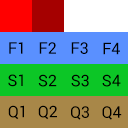
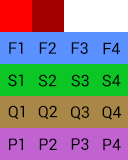
Add pistols

diff --git a/MonoGameJam1/Components/Player/PlayerComponent.cs b/MonoGameJam1/Components/Player/PlayerComponent.cs
@@ -49,6 +49,11 @@ namespace MonoGameJam1.Components.Player
             Quarterstaff3,
             Quarterstaff4,
 
+            Pistol1,
+            Pistol2,
+            Pistol3,
+            Pistol4,
+
             Shot,
             Dying
         }
@@ -153,6 +158,11 @@ namespace MonoGameJam1.Components.Player
                 {Animations.Quarterstaff2, "quarterstaff2"},
                 {Animations.Quarterstaff3, "quarterstaff3"},
                 {Animations.Quarterstaff4, "quarterstaff4"},
+
+                {Animations.Pistol1, "pistol1"},
+                {Animations.Pistol2, "pistol2"},
+                {Animations.Pistol3, "pistol3"},
+                {Animations.Pistol4, "pistol4"},
 
                 {Animations.Shot, "shot"},
                 {Animations.Dying, "dying"},
@@ -339,6 +349,67 @@ namespace MonoGameJam1.Components.Player
             sprite.AddFramesToAttack(am[Animations.Quarterstaff4], 1);
 
             #endregion
+
+            
+            // == PISTOL ATTACKS ==
+
+            #region Pistol Animations
+
+            sprite.CreateAnimation(am[Animations.Pistol1], 0.1f);
+            sprite.AddFrames(am[Animations.Pistol1], new List<Rectangle>()
+            {
+                new Rectangle(0, 128, 32, 32),
+                new Rectangle(0, 128, 32, 32),
+            });
+            sprite.AddAttackCollider(am[Animations.Pistol1], new List<List<Rectangle>>
+            {
+                new List<Rectangle>(),
+                new List<Rectangle> { new Rectangle(0, -10, 128, 29) },
+            });
+            sprite.AddFramesToAttack(am[Animations.Pistol1], 1);
+
+            sprite.CreateAnimation(am[Animations.Pistol2], 0.1f);
+            sprite.AddFrames(am[Animations.Pistol2], new List<Rectangle>()
+            {
+                new Rectangle(32, 128, 32, 32),
+                new Rectangle(32, 128, 32, 32),
+            });
+            sprite.AddAttackCollider(am[Animations.Pistol2], new List<List<Rectangle>>
+            {
+                new List<Rectangle>(),
+                new List<Rectangle> { new Rectangle(0, -10, 128, 29) },
+            });
+            sprite.AddFramesToAttack(am[Animations.Pistol2], 1);
+
+            sprite.CreateAnimation(am[Animations.Pistol3], 0.1f);
+            sprite.AddFrames(am[Animations.Pistol3], new List<Rectangle>()
+            {
+                new Rectangle(64, 128, 32, 32),
+                new Rectangle(64, 128, 32, 32),
+            });
+            sprite.AddAttackCollider(am[Animations.Pistol3], new List<List<Rectangle>>
+            {
+                new List<Rectangle>(),
+                new List<Rectangle> { new Rectangle(0, -10, 128, 29) },
+            });
+            sprite.AddFramesToAttack(am[Animations.Pistol3], 1);
+
+            sprite.CreateAnimation(am[Animations.Pistol4], 0.1f);
+            sprite.AddFrames(am[Animations.Pistol4], new List<Rectangle>()
+            {
+                new Rectangle(96, 128, 32, 32),
+                new Rectangle(96, 128, 32, 32),
+            });
+            sprite.AddAttackCollider(am[Animations.Pistol4], new List<List<Rectangle>>
+            {
+                new List<Rectangle>(),
+                new List<Rectangle> { new Rectangle(0, -10, 128, 29) },
+            });
+            sprite.AddFramesToAttack(am[Animations.Pistol4], 1);
+
+            #endregion
+
+            // == MISC ANIMATIONS ==
 
             sprite.CreateAnimation(am[Animations.Shot], 0.1f);
             sprite.AddFrames(am[Animations.Shot], new List<Rectangle>()
@@ -543,6 +614,11 @@ namespace MonoGameJam1.Components.Player
         public float GetDeltaTimeFunc()
         {
             return Time.deltaTime;
+        }
+
+        public int GetIntDirection()
+        {
+            return sprite.spriteEffects == SpriteEffects.FlipHorizontally ? -1 : 1;
         }
 
         private bool canMove()

diff --git a/MonoGameJam1/Components/Player/PlayerStates.cs b/MonoGameJam1/Components/Player/PlayerStates.cs
@@ -1,4 +1,5 @@
-using MonoGameJam1.FSM;
+using Microsoft.Xna.Framework;
+using MonoGameJam1.FSM;
 using MonoGameJam1.Managers;
 using Nez;
 
@@ -32,6 +33,9 @@ namespace MonoGameJam1.Components.Player
                             break;
                         case Weapon.Quarterstaff:
                             fsm.pushState(new QuarterstaffAttack1());
+                            break;
+                        case Weapon.Pistol:
+                            fsm.pushState(new PistolAttack1());
                             break;
                     }
                 }
@@ -142,18 +146,26 @@ namespace MonoGameJam1.Components.Player
     public class BaseAttackComboState : PlayerState
     {
         private bool _changeToAttack;
+        private ITimer _timer;
 
         public PlayerComponent.Animations Animation;
         public PlayerState NextState;
         public bool IsFinal;
         public float VerticalKnockback;
         public float HorizontalKnockback;
+        public float AttackPushDuration = 0.05f;
 
         public override void begin()
         {
             _input.IsLocked = true;
             entity.SetAnimation(Animation);
             entity.platformerObject.lockVerticalMovement = true;
+
+            entity.forceMovement(entity.GetIntDirection() * Vector2.UnitX);
+            _timer = Core.schedule(AttackPushDuration, entity, t =>
+            {
+                entity.forceMovement(Vector2.Zero);
+            });
         }
 
         public override void update()
@@ -178,6 +190,8 @@ namespace MonoGameJam1.Components.Player
 
         public override void end()
         {
+            _timer?.stop();
+            entity.forceMovement(Vector2.Zero);
             _input.IsLocked = false;
             entity.platformerObject.lockVerticalMovement = false;
         }
@@ -217,6 +231,7 @@ namespace MonoGameJam1.Components.Player
         public FistAttack4()
         {
             Animation = PlayerComponent.Animations.Fist4;
+            AttackPushDuration = 0.5f;
             IsFinal = true;
         }
     }
@@ -290,6 +305,46 @@ namespace MonoGameJam1.Components.Player
         {
             Animation = PlayerComponent.Animations.Quarterstaff4;
             HorizontalKnockback = 0.09f;
+            IsFinal = true;
+        }
+    }
+
+    #endregion
+
+    #region Pistol States
+
+    public class PistolAttack1 : BaseAttackComboState
+    {
+        public PistolAttack1()
+        {
+            Animation = PlayerComponent.Animations.Pistol1;
+            NextState = new PistolAttack2();
+        }
+    }
+
+    public class PistolAttack2 : BaseAttackComboState
+    {
+        public PistolAttack2()
+        {
+            Animation = PlayerComponent.Animations.Pistol2;
+            NextState = new PistolAttack3();
+        }
+    }
+
+    public class PistolAttack3 : BaseAttackComboState
+    {
+        public PistolAttack3()
+        {
+            Animation = PlayerComponent.Animations.Pistol3;
+            NextState = new PistolAttack4();
+        }
+    }
+
+    public class PistolAttack4 : BaseAttackComboState
+    {
+        public PistolAttack4()
+        {
+            Animation = PlayerComponent.Animations.Pistol4;
             IsFinal = true;
         }
     }

diff --git a/MonoGameJam1/Managers/InputManager.cs b/MonoGameJam1/Managers/InputManager.cs
@@ -55,7 +55,7 @@ namespace MonoGameJam1.Managers
 
             _weaponSelectionButton = new VirtualButton();
             _weaponSelectionButton
-                .addKeyboardKey(Keys.A)
+                .addKeyboardKey(Keys.X)
                 .addGamePadButton(0, Buttons.B);
 
             _attackButton = new VirtualButton();
@@ -65,7 +65,7 @@ namespace MonoGameJam1.Managers
 
             _jumpButton = new VirtualButton();
             _jumpButton
-                .addKeyboardKey(Keys.X)
+                .addKeyboardKey(Keys.Up)
                 .addGamePadButton(0, Buttons.A);    
 
             _upButton = new VirtualButton();

diff --git a/MonoGameJam1/Components/Battle/EnemyComponent.cs b/MonoGameJam1/Components/Battle/EnemyComponent.cs
@@ -121,9 +121,10 @@ namespace MonoGameJam1.Components.Battle
             var xKnockback = _playerComponent.CurrentStateHorizontalKnockback();
             var yKnockback = _playerComponent.CurrentStateVerticalKnockback();
 
-            _knockbackTick = new Vector2(0.03f, yKnockback);
+            _knockbackTick = new Vector2(0.05f, yKnockback);
             _knockbackVelocity = new Vector2(knockback.X * 2, -1000);
-            if (xKnockback != 0)
+
+            if (Math.Abs(xKnockback) > 0.01)
             {
                 var diff = Math.Sign((entity.position - _playerComponent.entity.position).X);
 
